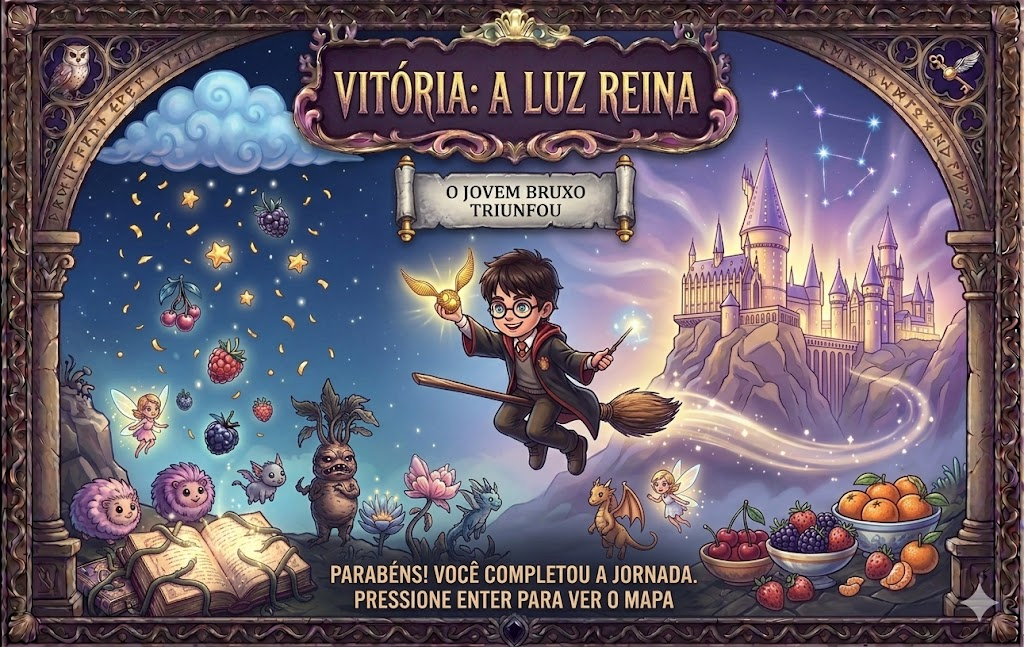
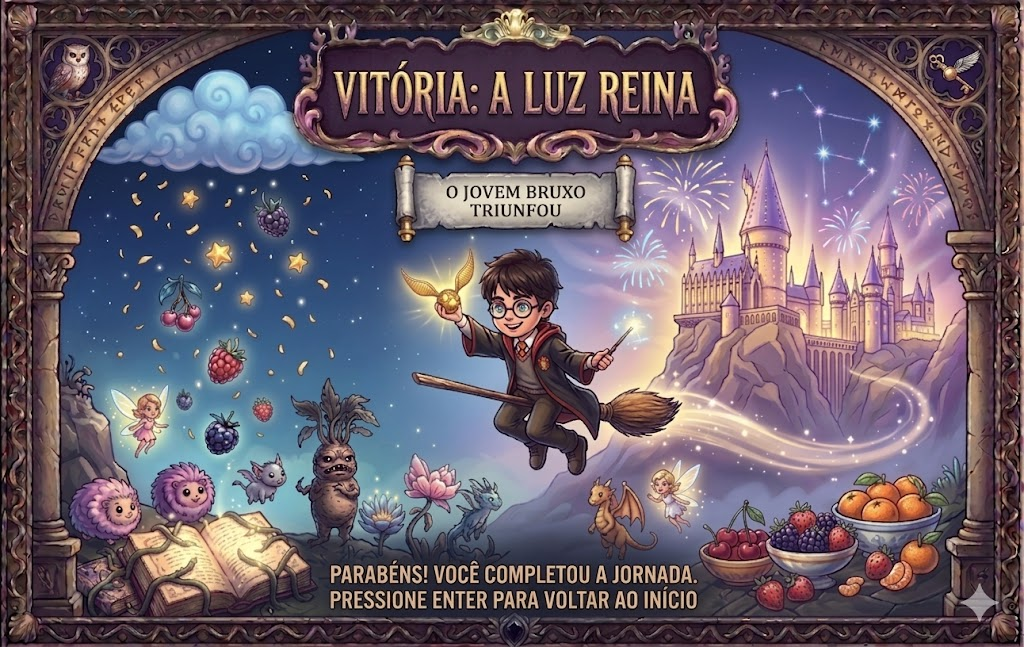
add:mod

diff --git a/main.py b/main.py
@@ -86,6 +86,7 @@ while rodando:
         tela.blit(texto_pontos,(450,10))
 
 
+
         #colocando a harry
         mini_harry.andar(tecla_pressionada)
         mini_harry.exibir(tela)
@@ -133,13 +134,30 @@ while rodando:
                 contador_pontos = contador_pontos + 3
                 bonus.voltar()
 
-            if tecla_pressionada[pygame.K_SPACE]  :
+            if tecla_pressionada[pygame.K_SPACE] :
                 bonus.pos_bonus_x,bonus.pos_bonus_y = mini_harry.pos_x,mini_harry.pos_y
                 poder = True
                 if  bonus.mascara4.overlap(mini_harry.mascara,(mini_harry.pos_x-bonus.pos_bonus_x,mini_harry.pos_y-bonus.pos_bonus_y)):
                     contador_pontos =+ 3
                     bonus.voltar()
+                    
 
+    
+    if status_jogo == "FIM":
+        tela.blit(capa_perda,(0,0))
+        if tecla_pressionada[pygame.K_RETURN] or tecla_pressionada[pygame.K_KP_ENTER]:
+            status_jogo = "INICIO"
+            contador_pontos = 0
+            contador_mortes = 0 
+
+    if contador_pontos == 20:
+        status_jogo = "FIM"
+        tela.blit(capa_vitoria,(0,0))
+        if tecla_pressionada[pygame.K_RETURN] or tecla_pressionada[pygame.K_KP_ENTER]:
+            status_jogo = "INICIO"
+            contador_pontos = 0 
+            contador_mortes = 0 
+            
     pygame.display.update() 
     clock.tick(60)
 
